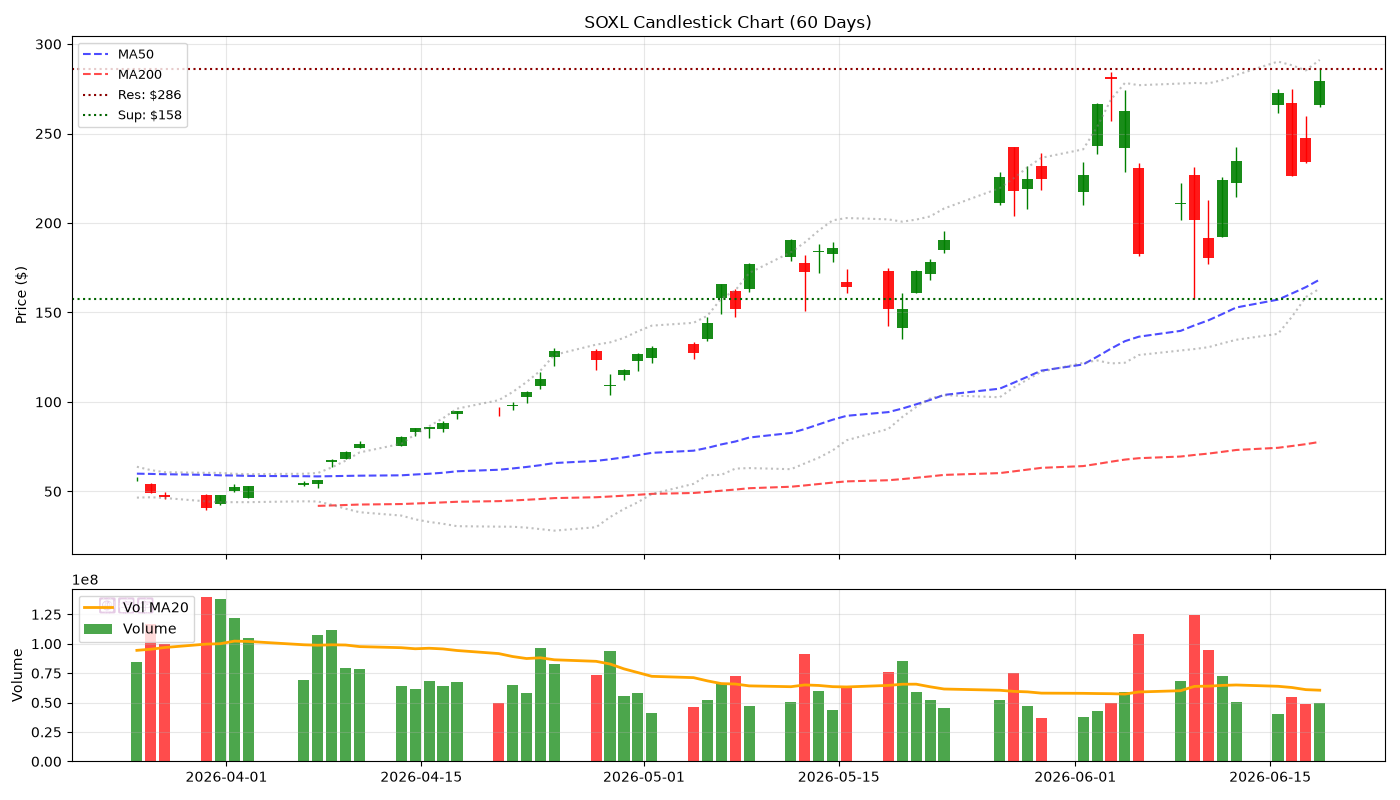
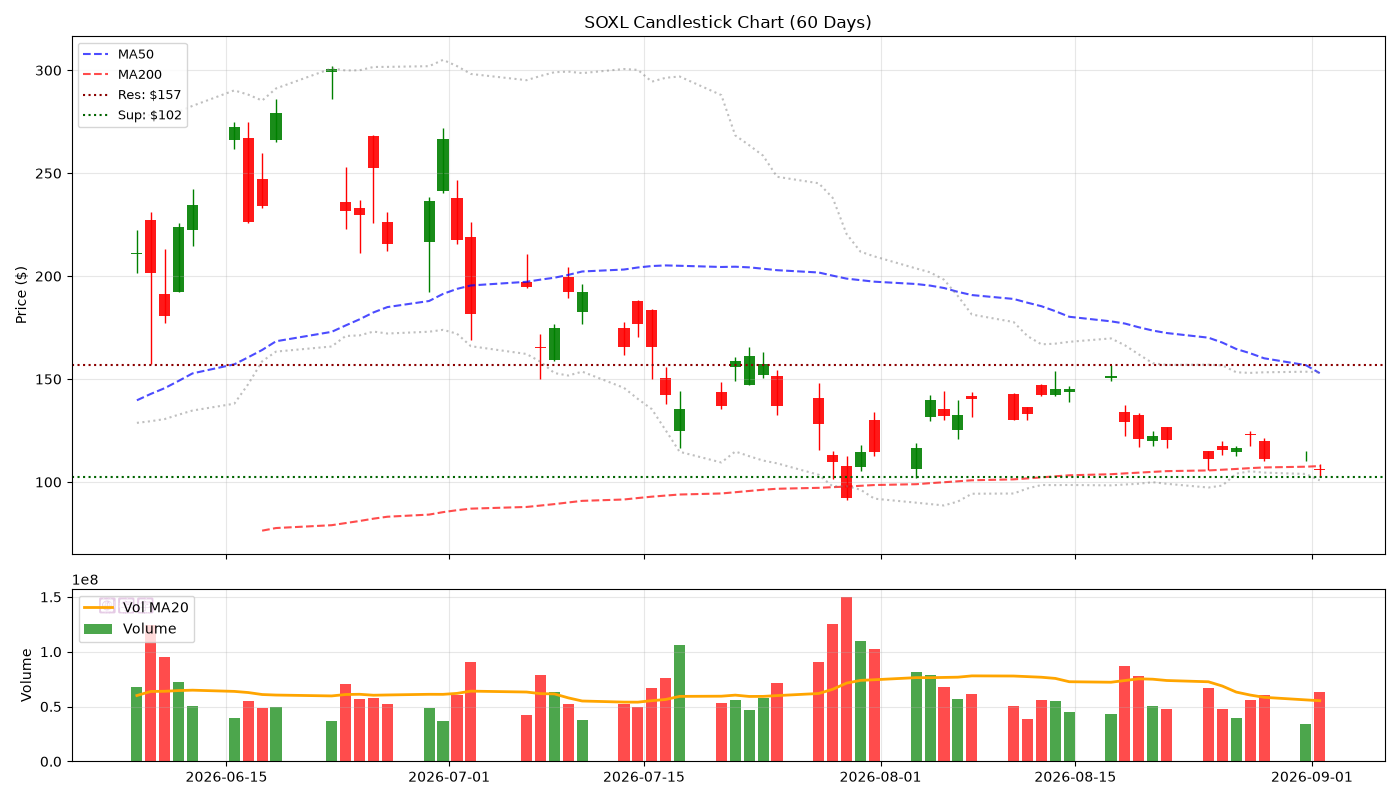
feat(v5): 2026-09-02 Candlestick

diff --git a/reports/2026-09-02.md b/reports/2026-09-02.md
@@ -1,0 +1,64 @@
+# 🕯 Hermes V5 陰陽燭專業日報 - 2026-09-02
+> **生成時間**: 2026-09-02 06:00:55 | **圖表**: 正宗陰陽燭 + Volume
+
+---
+
+## 📊 核心數據
+
+| 股票 | 價格 | 漲跌% | RSI | 成交量 | 阻力 | 支撐 |
+|------|------|-------|-----|--------|------|------|
+| SNDK | $1536.87 | -1.90% | 60.1 | 💧 | $1550 | $1500 |
+| MU | $933.44 | -2.64% | 53.1 | 💧 | $950 | $900 |
+| SOXL | $105.91 | -6.10% | 28.8 | 💧 | $157 | $102 |
+| TSLA | $356.09 | -3.22% | 61.5 | 💧 | $369 | $350 |
+| NOW | $142.90 | -3.44% | 66.3 | 💧 | $150 | $112 |
+| NOK | $9.93 | -2.07% | 42.9 | 💧 | $11 | $9 |
+| ALAB | $279.91 | -5.75% | 33.5 | 💧 | $300 | $266 |
+
+---
+
+## 📈 個股陰陽燭分析
+
+### SNDK ($1536.87, -1.90%)
+![Candlestick](../charts/SNDK.png)
+
+- **RSI**: 60.1 | **Vol**: NORMAL
+- **關鍵位**: 阻力 $1550.00 | 支撐 $1500.00
+
+### MU ($933.44, -2.64%)
+![Candlestick](../charts/MU.png)
+
+- **RSI**: 53.1 | **Vol**: NORMAL
+- **關鍵位**: 阻力 $950.00 | 支撐 $900.00
+
+### SOXL ($105.91, -6.10%)
+![Candlestick](../charts/SOXL.png)
+
+- **RSI**: 28.8 | **Vol**: NORMAL
+- **關鍵位**: 阻力 $156.92 | 支撐 $102.31
+
+### TSLA ($356.09, -3.22%)
+![Candlestick](../charts/TSLA.png)
+
+- **RSI**: 61.5 | **Vol**: NORMAL
+- **關鍵位**: 阻力 $368.92 | 支撐 $350.00
+
+### NOW ($142.90, -3.44%)
+![Candlestick](../charts/NOW.png)
+
+- **RSI**: 66.3 | **Vol**: NORMAL
+- **關鍵位**: 阻力 $149.60 | 支撐 $111.80
+
+### NOK ($9.93, -2.07%)
+![Candlestick](../charts/NOK.png)
+
+- **RSI**: 42.9 | **Vol**: NORMAL
+- **關鍵位**: 阻力 $11.13 | 支撐 $9.12
+
+### ALAB ($279.91, -5.75%)
+![Candlestick](../charts/ALAB.png)
+
+- **RSI**: 33.5 | **Vol**: NORMAL
+- **關鍵位**: 阻力 $300.00 | 支撐 $266.31
+
+*Generated by Hermes Agent V5 (Candlestick Pro)*

diff --git a/index.md b/index.md
@@ -1,0 +1,12 @@
+# 🌍 Hermes V5 陰陽燭情報中心
+> **更新**: 2026-09-02 06:00:55
+
+| 股票 | 價格 | 漲跌% | RSI | Vol |
+|------|------|-------|-----|-----|
+| SNDK | $1536.87 | -1.90% | 60.1 | 💤 |
+| MU | $933.44 | -2.64% | 53.1 | 💤 |
+| SOXL | $105.91 | -6.10% | 28.8 | 💤 |
+| TSLA | $356.09 | -3.22% | 61.5 | 💤 |
+| NOW | $142.90 | -3.44% | 66.3 | 💤 |
+
+📖 [查看完整陰陽燭報告](reports/2026-09-02.md)
